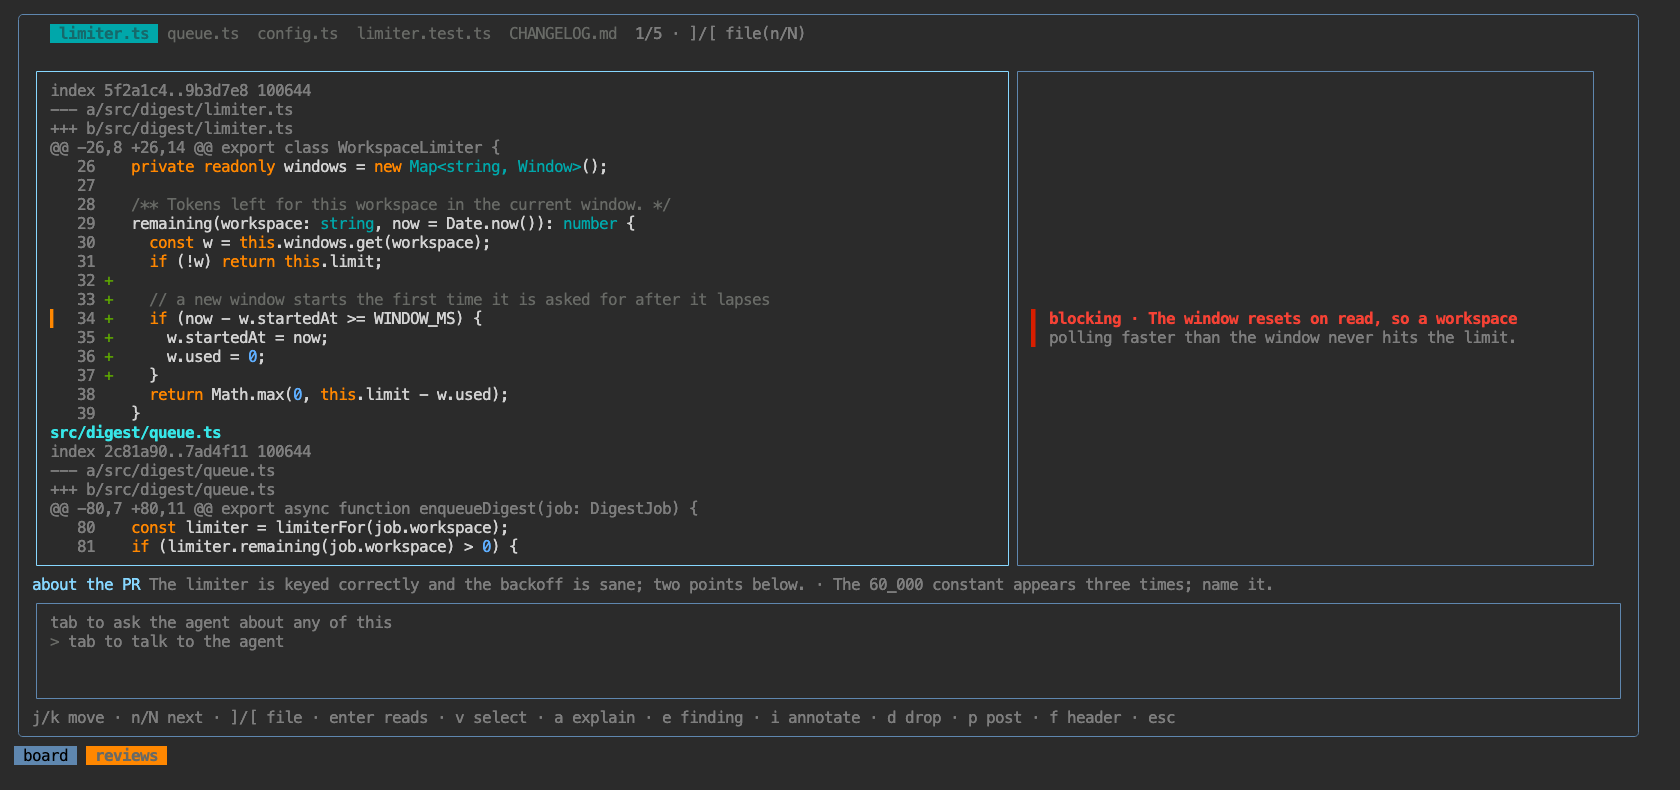
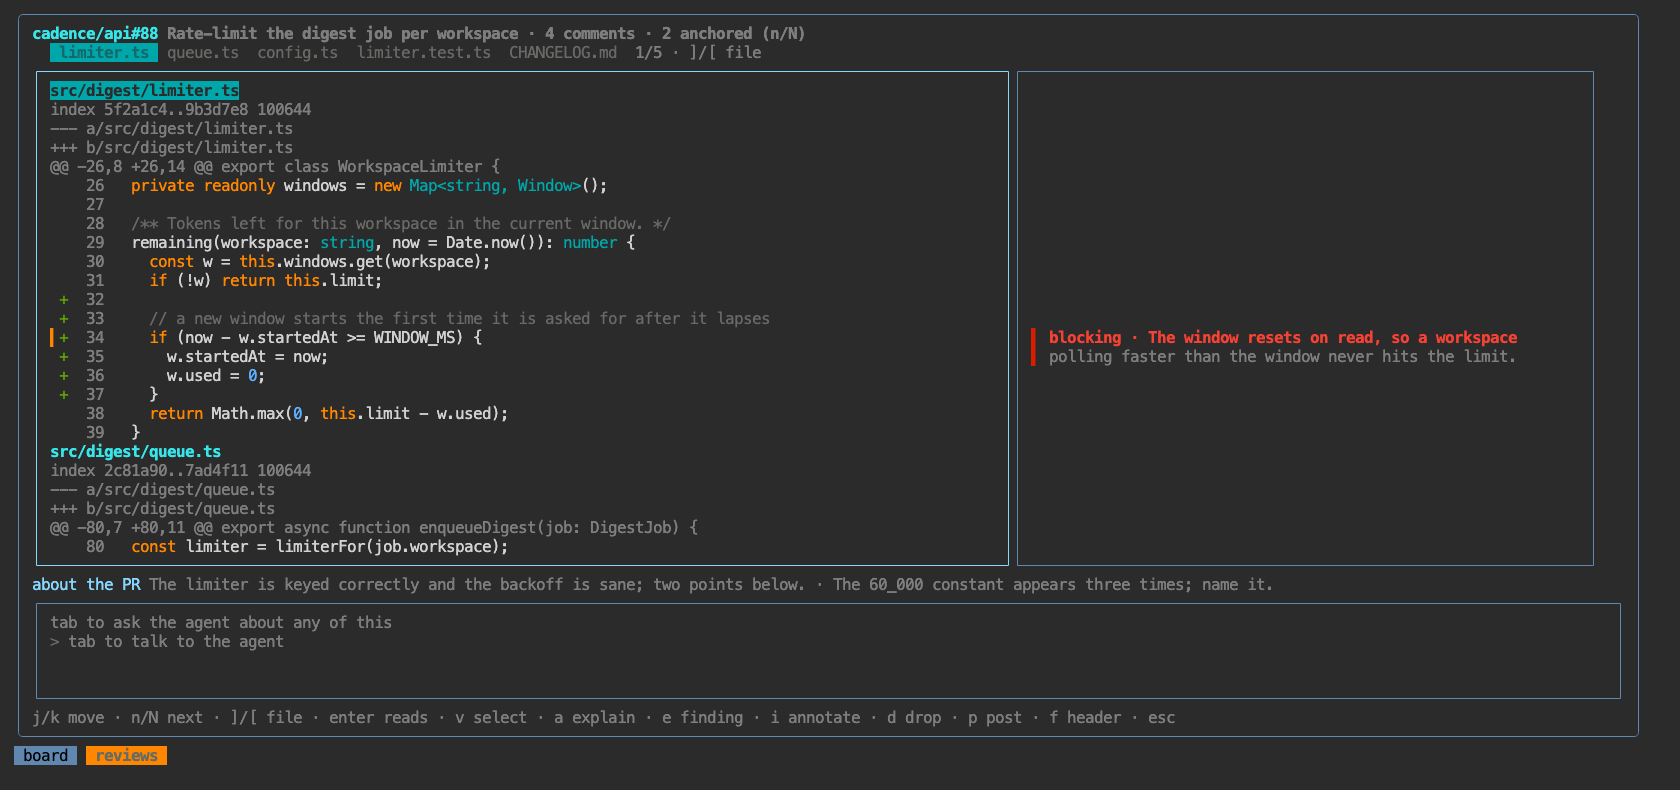
The +/- sits left of the line number
The sign was between the number and the code, with empty gutter to the left of
the number. Move it to that empty space: marker, then +/-, then the number, then
the code. "What changed" now sits at the left edge where the eye scans down, and
the gutter width is unchanged (marker + sign + 4-wide number + space = 7), so
the diff.check width invariant and the wrap math are untouched — only the order
moved. Flagship screenshot regenerated.

diff --git a/src/ui/AnnotatedDiff.tsx b/src/ui/AnnotatedDiff.tsx
@@ -736,10 +736,12 @@ function DiffRow(props: {
       <Text color={selected ? theme.selection : annotated ? (info ? theme.annotation : theme.key) : undefined}>
         {selected ? '▏' : annotated ? (info ? '│' : '▍') : ' '}
       </Text>
+      {/* the +/- sits left of the number: that gutter has the room, and it puts
+          "what changed" closest to the eye scanning down the margin */}
+      <Text color={onCursor ? undefined : signColor}>{sign}</Text>
       <Text dimColor={!selected} color={selected ? theme.selection : undefined} bold={selected}>
         {num}{' '}
       </Text>
-      <Text color={onCursor ? undefined : signColor}>{sign}</Text>
       {row.spans.map((sp, i) => (
         <Text
           key={i}

diff --git a/src/core/diff.check.ts b/src/core/diff.check.ts
@@ -23,7 +23,7 @@ const check = (name: string, ok: boolean, detail = '') => {
   if (!ok) failures.push(`${name}${detail ? ` — ${detail}` : ''}`);
 };
 
-/** Mirrors AnnotatedDiff: marker + 4-wide number + space + sign before the code. */
+/** Mirrors AnnotatedDiff: marker + sign + 4-wide number + space before the code. */
 const GUTTER = 7;
 
 /**
